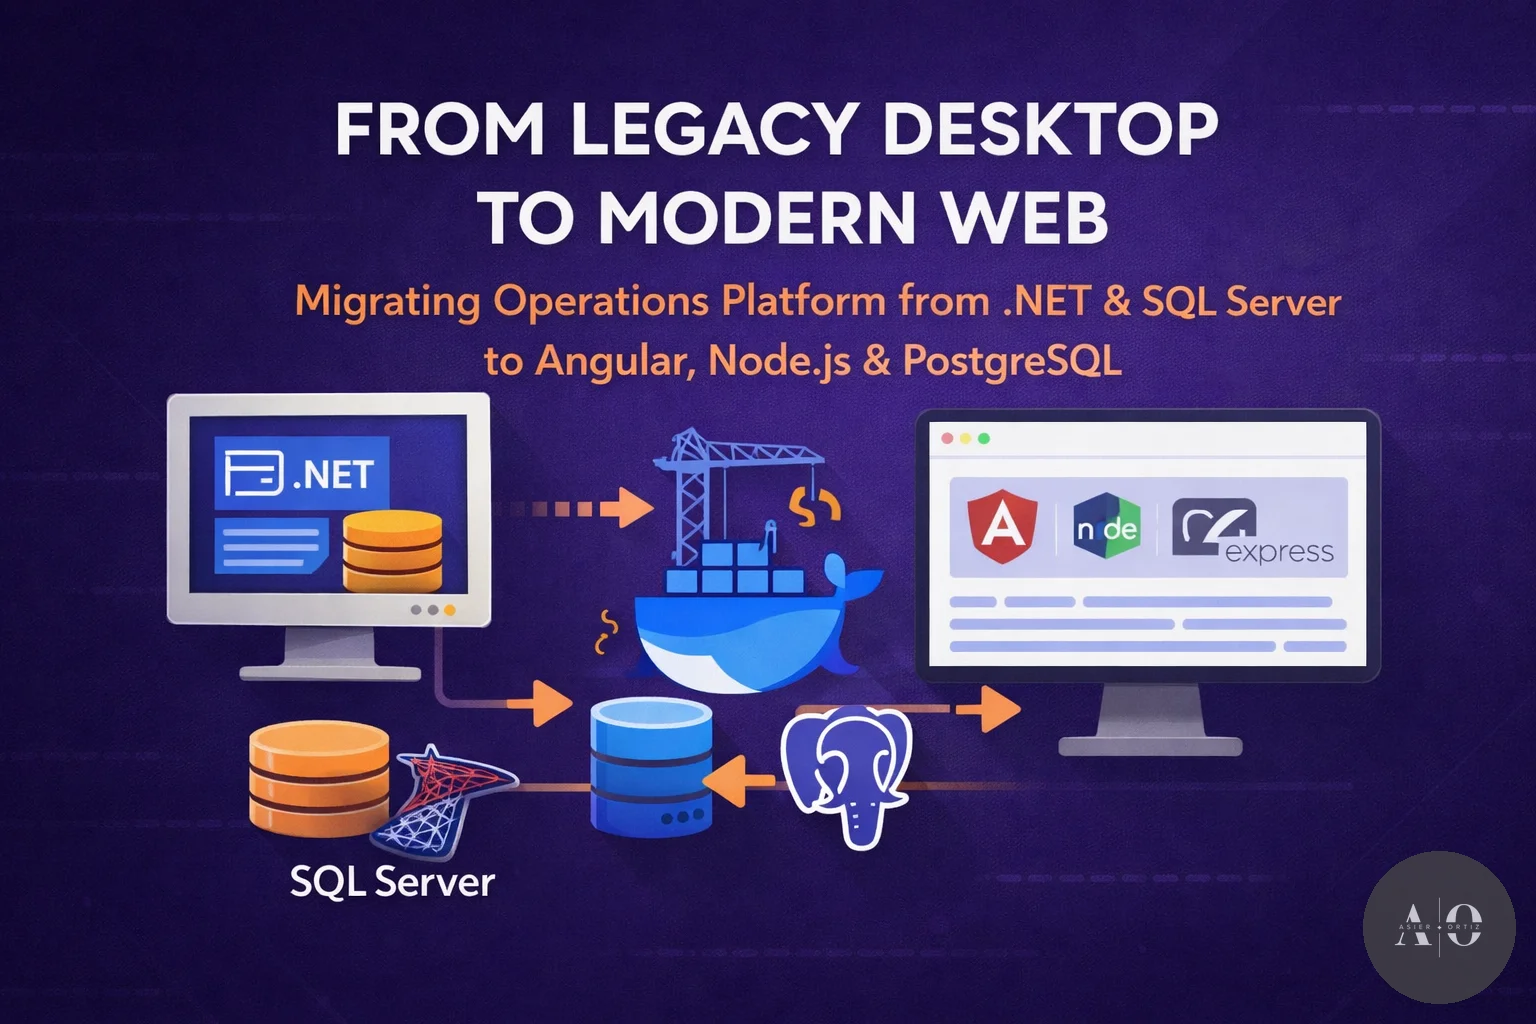
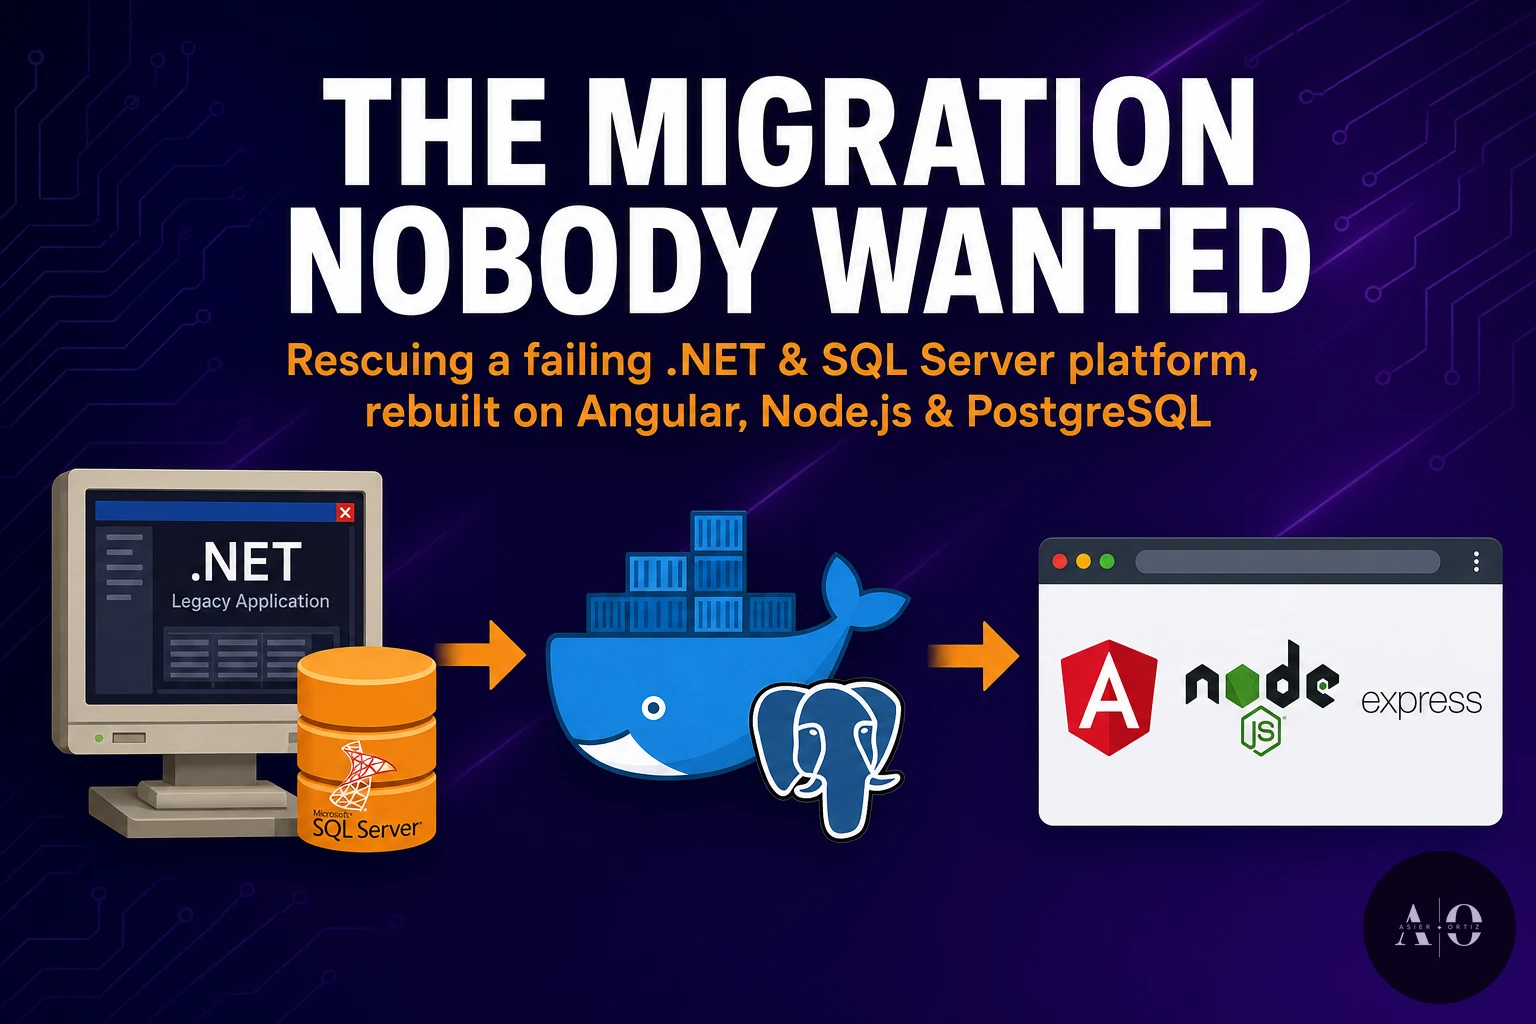
update(blog): retitle rescue post and refresh cover image
Rename "From Legacy Desktop to Modern Web" to "The Migration Nobody Wanted"
to avoid overlap with the "From the Stopwatch to the Dashboard" post title.
Regenerate the cover image with the new title (slug/URL unchanged).

diff --git a/src/content/blog/rescuing-a-legacy-operations-platform.md b/src/content/blog/rescuing-a-legacy-operations-platform.md
@@ -1,5 +1,5 @@
 ---
-title: "From Legacy Desktop to Modern Web: Rescuing a Critical Operations Platform"
+title: "The Migration Nobody Wanted: Rescuing a Critical Operations Platform"
 description: "How I inherited a failing migration from a .NET desktop app to a modern web platform and turned 17 years of messy data into a system the client actually trusts."
 pubDate: "2026-03-28"
 image: "/assets/blog/rescuing-legacy-project.webp"
